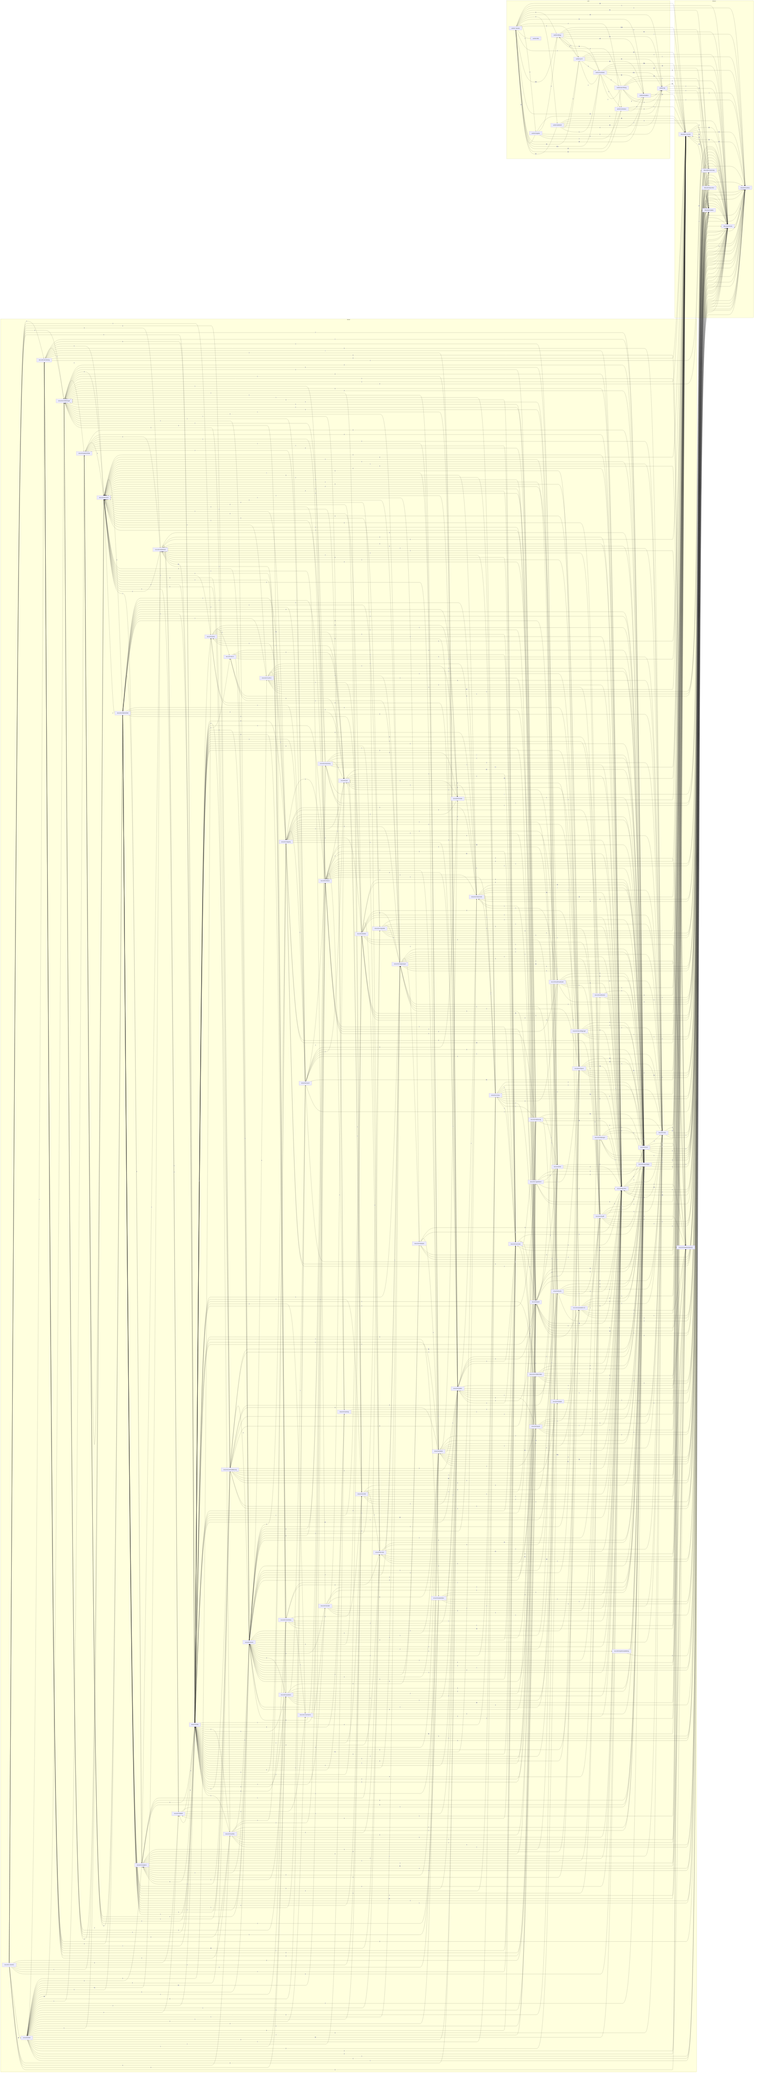
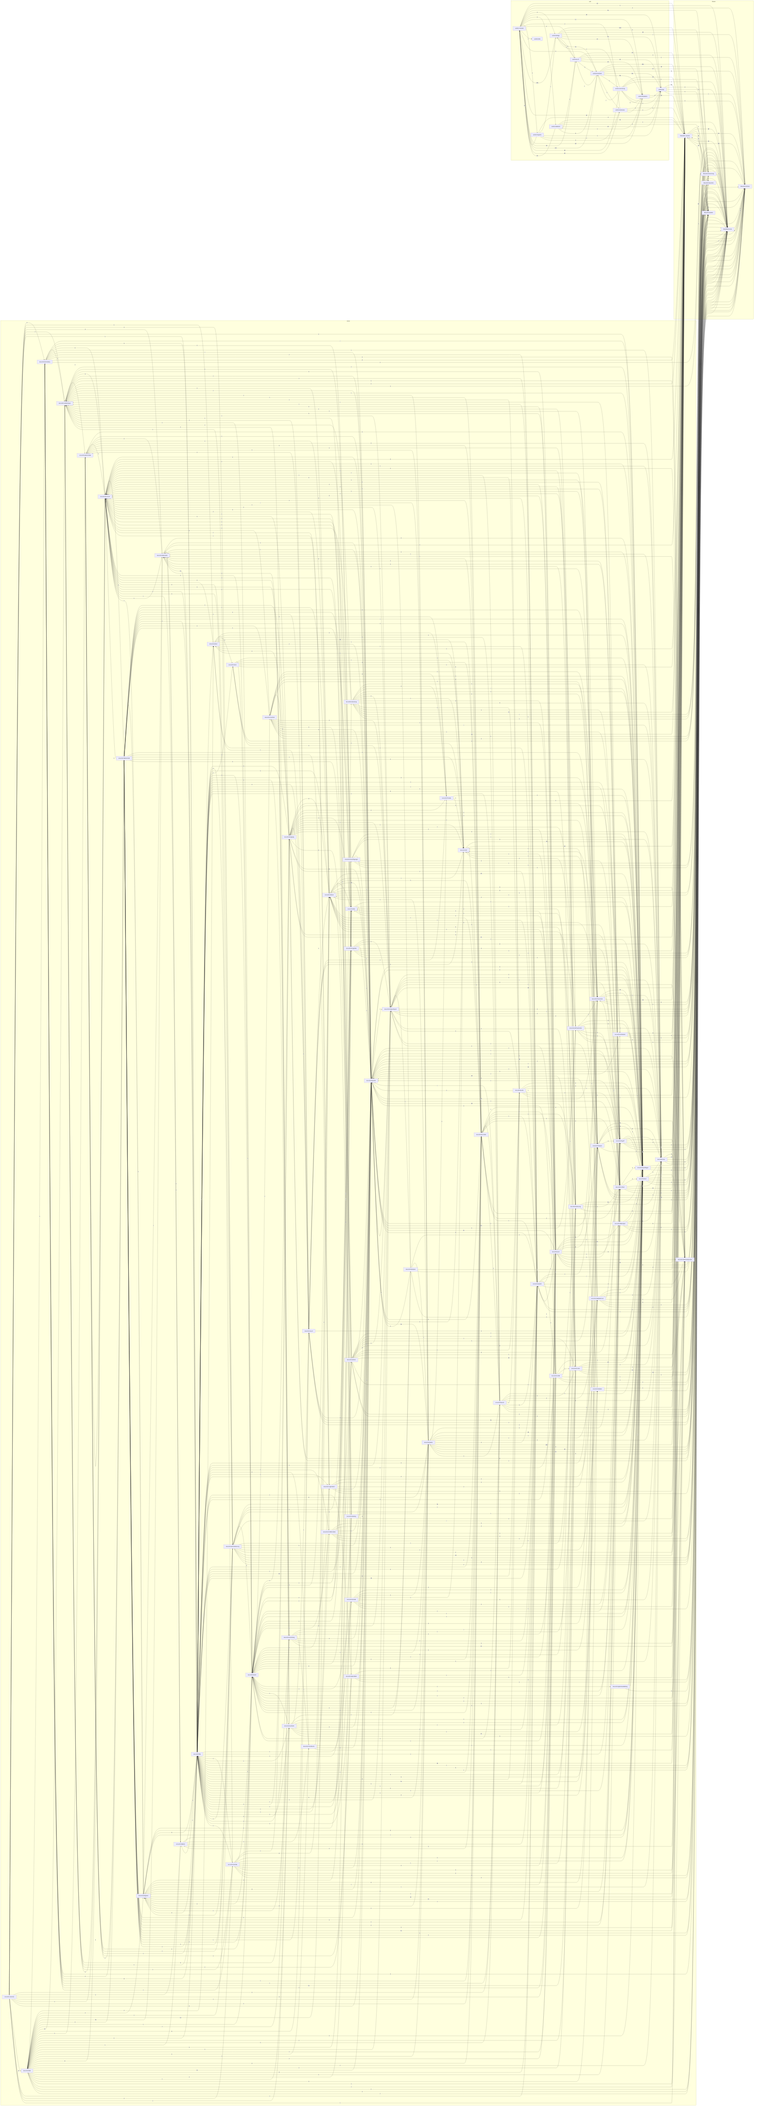
Kreise auch im Server über Typen als Fehler, Doku (#1278, Schritt 5b)
- kein-kreislauf: eine Regel für server/src, shared/src und web/src, auch
  über reine Typ-Importe (Tests ausgenommen). post/postfach-typen.ts steht
  mit postfach.ts in OHNE_TUER.
- knip-Bestand umgetragen (924 → 923; AufgabenKonten und LoeschenKonten an
  ihrem neuen Ort, Verschluesselung wird jetzt genutzt).
- Entwicklerhandbuch (de/en), „Abhängigkeiten zwischen den Teilen“: wie sich
  neue Routen anmelden, die Muster aus Schritt 5b.
- Release-Schnipsel und Abhängigkeitsbild.

diff --git a/docs/handbuch/entwickler/docs/stil.md b/docs/handbuch/entwickler/docs/stil.md
@@ -121,10 +121,11 @@ Ein neuer Token bekommt immer einen hellen **und** einen dunklen Wert (oder bewu
 
 `.dependency-cruiser.cjs` legt fest, wer wen importieren darf (`npm run lint:abh`):
 
-- **Keine Kreisläufe** zwischen Dateien (`kein-kreislauf`) – ein Kreis ist ein Fehler, er steht nicht im Bestand. In `shared/src/` und `web/src/` zählen seit #1278 (Schritt 5) auch reine Typ-Importe (`import type`, `import('…').Typ`): Auch ein Kreis nur über Typen verklebt die Dateien – keine lässt sich ohne die andere lesen oder verschieben. In `server/src/` gilt das, sobald der große Kreis über `http/routen.ts` aufgelöst ist (Schritt 5b); bis dahin zählen dort nur Importe, die zur Laufzeit wirken. Tests sind ausgenommen. Wie man einen Kreis auflöst:
-    - **Form nach unten:** Typen, die mehrere Dateien teilen, in eine Datei, die nichts zurück einbindet – die Datei, die sie auswertet, holt sie von dort und reicht sie weiter, wo andere sie bisher von ihr holten. Beispiele: Die Angaben am Feld und am Mappentyp (Frist, „folgt aus“, Erkennung, Format, Aufbewahrung …) liegen in `shared/src/model/angaben.ts`, das Regelwerk in `model/regelwerk.ts`, die Beschriftungen in `model/beschriftungen.ts`; die Form der Automatisierungen in `shared/src/automatisierung-typen.ts`; die Rechte an einer Sicht bei der Sicht (`sichten/baum.ts`).
+- **Keine Kreisläufe** zwischen Dateien (`kein-kreislauf`) – ein Kreis ist ein Fehler, er steht nicht im Bestand. Es zählen auch reine Typ-Importe (`import type`, `import('…').Typ`) – in `shared/src/` und `web/src/` seit #1278 (Schritt 5a), in `server/src/` seit Schritt 5b: Auch ein Kreis nur über Typen verklebt die Dateien – keine lässt sich ohne die andere lesen oder verschieben. Tests sind ausgenommen. Wie man einen Kreis auflöst:
+    - **Form nach unten:** Typen, die mehrere Dateien teilen, in eine Datei, die nichts zurück einbindet – die Datei, die sie auswertet, holt sie von dort und reicht sie weiter, wo andere sie bisher von ihr holten. Beispiele: Die Angaben am Feld und am Mappentyp (Frist, „folgt aus“, Erkennung, Format, Aufbewahrung …) liegen in `shared/src/model/angaben.ts`, das Regelwerk in `model/regelwerk.ts`, die Beschriftungen in `model/beschriftungen.ts`; die Form der Automatisierungen in `shared/src/automatisierung-typen.ts`; die Rechte an einer Sicht bei der Sicht (`sichten/baum.ts`). Im Server die Form der Routen in `http/routen-typen.ts` (siehe unten), die IMAP-Verbindung in `post/postfach-typen.ts`, der Plan des Notfallblatts in `pdf/notfallblatt.ts`, Dateiname und Texterkennung der Dokumente in `dokumente/gemeinsam.ts` und der Anschluss eines Fachordners in seiner `anschluss.ts` (`aufgaben/`, `loeschen/`, `datenschutz/`).
     - **Zweite Tür:** Teile, die das Fachmodell selbst einbindet (Prüfregeln, Werte und Systemmappentypen nutzen etwa `beschriftung.ts`, `folgtaus.ts`, `tabelle.ts`, `verweisziele.ts`), nehmen das Modell aus `model/basis.ts` – der Form von Feld, Mappentyp und Mappe ohne Prüfregeln –, nicht aus `model/index.ts`. Alles aus `basis.ts` gibt es auch über `index.ts`.
-    - **Schmaler Anschluss statt der ganzen Klasse:** Bekommt ein Teil seinen Besitzer herein (`new Historie(this)` im Kern), beschreibt er mit einer kleinen Schnittstelle, was er davon braucht (`HistorieAnschluss` in `server/src/kern/historie.ts`), statt die Klasse einzubinden.
+    - **Schmaler Anschluss statt der ganzen Klasse:** Bekommt ein Teil seinen Besitzer herein (`new Historie(this)` im Kern), beschreibt er mit einer kleinen Schnittstelle, was er davon braucht (`HistorieAnschluss` in `server/src/kern/historie.ts`), statt die Klasse einzubinden. Ebenso nehmen Erkennung, Übersetzung, Fragen an die Ablage und die Postfächer nicht den ganzen `Dienst`, sondern je eine Schnittstelle mit den Teilen, die sie rufen (`ErkennungDienst` in `erkennung/erkennung-basis.ts`, `PostfachDienst` …; `Pick<Klasse, 'methode'>`).
+    - **Teile beschreiben statt einbinden:** Rufen die Klassen eines Fachordners einander über `teile`, nennt jede nur die Teile, die sie ruft (`Pick<Klasse, …>` für Klassen weiter unten). Ruft eine Klasse fast alle anderen und rufen die anderen sie, beschreibt eine eigene Datei, was die anderen von ihr brauchen, und die Klasse erfüllt das (`aufgaben/vertretung-teil.ts`, `class AufgabenVertretung implements VertretungTeil`). Die volle Liste, die der Dienst zusammensetzt, steht ganz oben (`aufgaben/aufgaben-teile.ts`), den Anschluss hat der Ordner in `anschluss.ts`.
     - **Zustand neben die Oberfläche:** Hooks und Zustand, die Teile einer Seite teilen, in eine eigene Datei (`web/src/werkbank/paketeZustand.ts`, `betriebZustand.ts`, `web/src/erreichbarkeit.ts`); ein Kind beschreibt selbst, was es vom Elternteil bekommt (`PostfachStand.tsx`).
     - Gegenprobe: `npm run lint:abh` nennt den Kreis mit allen Dateien darauf.
 - **`shared/`** importiert weder `server/` noch `web/` – der Code läuft in beiden.
@@ -132,9 +133,10 @@ Ein neuer Token bekommt immer einen hellen **und** einen dunklen Wert (oder bewu
 - **Technik nur über `index.ts`:** die [PDF-Stelle](aufbau.md#pdf-stelle) `server/src/pdf/` (außer für `arbeit/vorgaenge.ts`, das die Vorgänge im Arbeiter-Faden ausführt) und `server/src/arbeit/`; das Repo `server/src/repo/` nur über seine drei `index.ts` (Schnittstelle, `pg/`, `speicher/`; `repo-nur-ueber-index`, #1278). Ebenso die Ordner in `shared/src/`, die früher eine Datei waren – das Fachmodell `model/`, `erkennung/`, `pakete/` und `sichten/` –, nur über ihre `index.ts` (`shared-ordner-nur-ueber-index`, #1278, Liste `SHARED_ORDNER`); die Importe heißen wie früher `…/shared/src/model` usw. Das Fachmodell hat eine zweite Tür, `model/basis.ts` (siehe oben, #1278, Schritt 5). Drei Ausnahmen, damit über die Tür kein Kreis entsteht: `feldformate.ts` holt die IBAN-Prüfung aus `erkennung/angaben.ts`, das Fachmodell den Typ `Feldbedingung` aus `sichten/bedingungen.ts` und die Bedingungen die Feldart aus `model/feldtypen.ts`.
 - **Fachordner** (#1072, eine Regel `fachordner` für alle, vorher je Ordner zwei): von außen nur über ihre `index.ts` – auch aus Tests –, und [Schichten](aufbau.md#schichten) nur abwärts. Die Schichten stehen zentral in `SCHICHTEN` (Kern 0, `zugriff` 1, `mappentypen`/`mappen`/`dokumente`/`berechtigungen`/`ereignisse` 2, alle übrigen 3, auch künftige), die Ordner ohne Fachlogik in `TECHNIK`. Der Kern importiert nur sich selbst, `shared/` und die Basis (`BASIS` in der Datei: Repo, Datenbank, Protokoll, Texte, Einstellungen, Dateien, Zähler, Fehler, Grenzen); höhere Schichten dazu tiefere Fachordner und die Werkzeuge (`WERKZEUGE`: `messung.ts`, `vektoren.ts`, seit #1075 die Technik der Dateien – `hochladen.ts`, `verkleinern.ts`, `dateiumwandlung.ts`, `archivfassung.ts`, `entsperren.ts`, `paketvolltext.ts` –, seit #1077 die Technik für Post, Ausgang und PDF bearbeiten – `pdfseiten.ts`, `graubild.ts`, `schwaerzen.ts`, `ausgabe.ts`, `export.ts`, `xlsx.ts`, `zip.ts`, `mail.ts` –, seit #1078 die Technik für Löschen und Datenschutz – `baum.ts`, `schriftstueck.ts`, `auskunft.ts`, `vollexport.ts`, `abruf.ts`, `passwort.ts`, `tresor.ts` –, `pdf/`, `arbeit/`) – nie `dienst.ts`. Routen (`*.routen.ts`) sind ausgenommen: `routen.ts` holt sie direkt, und sie dürfen den Dienst und ihren eigenen Fachordner einbinden. Siehe [Kern](aufbau.md#kern), [Rechte prüfen](aufbau.md#zugriff).
 - **Über dem Dienst** (#1278): Paketverwaltung und Paketerstellung (`pakete/verwaltung/`, `pakete/erstellung/`) und der Motor der Automatisierungen (`automatisierung/motor/`) bekommen den ganzen Dienst, und der Dienst bindet `pakete/index.ts` ein. Damit kein Kreis über `dienst.ts` entsteht, hat jeder dieser Unterordner eine eigene `index.ts` als Tür (`UEBER_DEM_DIENST`). Sie binden `dienst.ts` nur als Typ ein (`ueber-dem-dienst-typ`) und dürfen bis zu deren eigenem Umzug `katalogsignatur.ts`, `projektschluessel.ts`, `entdecken.ts`, `entdecken-werkbank.ts` und `lizenztexte.ts` direkt einbinden, der Motor außerdem `zeitplan.ts`, `system.ts`, `aufgabenmail.ts` und `automatisierung-werkbank.ts`.
-- **Ohne Tür** (#1278, `OHNE_TUER`): Die Dateien, die bis Schritt 4a direkt in `server/src/` lagen, liegen jetzt in ihren Ordnern, aber noch nicht hinter deren `index.ts`. Für die Regeln gelten sie wie vorher: Jeder darf sie direkt einbinden, sie selbst prüfen die Schichten nicht, und Fachordner dürfen von ihnen nur die, die eine Liste nennt (Basis, Werkzeuge, Nachbarn, Teile über dem Dienst). Die Listen nennen Pfade ab `server/src/` (etwa `datenbank/db`). Wer eine Datei hinter die Tür bringt, nimmt sie aus `OHNE_TUER`. Teile, in die Schritt 4b eine solche Datei aufgeteilt hat (`dienst/bauteile.ts`, `webdav/webdav-*.ts`, `sicherung/sicherung-*.ts`, `sicherung/wiederherstellung-*.ts`, `erkennung/erkennung-*.ts`, `export/vollexport-*.ts`), stehen mit ihr dort.
+- **Ohne Tür** (#1278, `OHNE_TUER`): Die Dateien, die bis Schritt 4a direkt in `server/src/` lagen, liegen jetzt in ihren Ordnern, aber noch nicht hinter deren `index.ts`. Für die Regeln gelten sie wie vorher: Jeder darf sie direkt einbinden, sie selbst prüfen die Schichten nicht, und Fachordner dürfen von ihnen nur die, die eine Liste nennt (Basis, Werkzeuge, Nachbarn, Teile über dem Dienst). Die Listen nennen Pfade ab `server/src/` (etwa `datenbank/db`). Wer eine Datei hinter die Tür bringt, nimmt sie aus `OHNE_TUER`. Teile, in die Schritt 4b eine solche Datei aufgeteilt hat (`dienst/bauteile.ts`, `webdav/webdav-*.ts`, `post/postfach-typen.ts` aus Schritt 5b, `sicherung/sicherung-*.ts`, `sicherung/wiederherstellung-*.ts`, `erkennung/erkennung-*.ts`, `export/vollexport-*.ts`), stehen mit ihr dort.
 - **Nachbarn** (#1278, `NACHBARN`): Dateien ohne Tür, die ein Fachordner zusätzlich einbinden darf – `konten/` die Dateien `anmeldung/anmeldesperre.ts`, `konten/konto-repo.ts`, `anmeldung/zweifaktor.ts`, `anmeldung/passkeys.ts` und `anmeldung/oidc.ts`.
 - **Start nur aus `ablago.ts`** (#1278, `start-nur-aus-ablago`): Die Abschnitte des Starts in `server/src/start/` (technischer Ordner wie `http/`) bindet nur `ablago.ts` ein.
+- **Neue Routen anmelden** (#960, #1278 Schritt 5b): Die Routen eines Fachbereichs stehen in `<ordner>/<ordner>.routen.ts` als Funktion `(k: RoutenKontext) => Route[]`. Die Form (`Route`, `Anfrage`, `Antwort`, `Datei`, `Zugang`) kommt aus `http/routen-typen.ts`, der Kontext aus `http/routen-kontext.ts`, Hilfen aus `http/routen-hilfen.ts` – nie aus `http/routen.ts`. Angemeldet wird die Funktion in der Liste `BEREICHE` in `http/routen.ts`; die Reihenfolge der Liste ist die Registrierreihenfolge (Routenliste, Fastify, OpenAPI), eine neue Funktion kommt ans Ende, wenn nichts anderes nötig ist. `http/routen.ts` ist die einzige Datei, die Fachrouten einbindet, und keine Fachdatei bindet `http/routen.ts` ein – so entsteht kein Kreis. Was der Start an Routen und Kontext übergibt, beschreibt `RoutenExtras` in `http/routen-extras.ts`; die Kopfzeilen ausgelieferter Dateien baut `http/datei-koepfe.ts`. Für Tests sind `Anfrage`, `Antwort`, `Datei`, `Route` und `dateiKoepfe` weiter auch über `http/routen.ts` erreichbar.
 - **Hilfen der HTTP-Schicht nur in Routen** (#961, `routen-hilfen-nur-in-routen`): `http/routen-hilfen.ts` und `http/routen-kontext.ts` importieren nur `*.routen.ts` und `routen.ts`. Fachlogik bekommt den Benutzer übergeben, statt ihn selbst aus der Anfrage zu lesen (etwa mit `ich(a)`).
 - **Tür und Beschreibung:** Jeder Fachordner mit `*.dienst.ts` braucht `index.ts` und eine von Hand geschriebene `README.md` (`.github/werkzeuge/fachordner-pruefen.mjs`, Job **stil**). Was in der README steht, prüft niemand; einen erzeugten Teil gibt es nicht.
 

diff --git a/docs/handbuch/entwickler/docs-en/stil.md b/docs/handbuch/entwickler/docs-en/stil.md
@@ -121,10 +121,11 @@ A new token always gets a light **and** a dark value (or deliberately the same o
 
 `.dependency-cruiser.cjs` defines who may import whom (`npm run lint:abh`):
 
-- **No cycles** between files (`kein-kreislauf`) – a cycle is an error, it is not in the baseline. In `shared/src/` and `web/src/`, type-only imports (`import type`, `import('…').Type`) count as well since #1278 (step 5): a cycle through types alone also glues files together – neither can be read or moved without the other. In `server/src/` this applies once the large cycle through `http/routen.ts` is resolved (step 5b); until then only imports that act at runtime count there. Tests are exempt. How to resolve a cycle:
-    - **Shape downwards:** types that several files share go into a file that imports nothing back – the file that evaluates them takes them from there and re-exports them where others used to take them from it. Examples: the settings on a field and a folder type (reminder, "follows from", recognition, format, retention …) live in `shared/src/model/angaben.ts`, the rule set in `model/regelwerk.ts`, the labels in `model/beschriftungen.ts`; the shape of automations in `shared/src/automatisierung-typen.ts`; the rights on a view next to the view (`sichten/baum.ts`).
+- **No cycles** between files (`kein-kreislauf`) – a cycle is an error, it is not in the baseline. Type-only imports (`import type`, `import('…').Type`) count as well – in `shared/src/` and `web/src/` since #1278 (step 5a), in `server/src/` since step 5b: a cycle through types alone also glues files together – neither can be read or moved without the other. Tests are exempt. How to resolve a cycle:
+    - **Shape downwards:** types that several files share go into a file that imports nothing back – the file that evaluates them takes them from there and re-exports them where others used to take them from it. Examples: the settings on a field and a folder type (reminder, "follows from", recognition, format, retention …) live in `shared/src/model/angaben.ts`, the rule set in `model/regelwerk.ts`, the labels in `model/beschriftungen.ts`; the shape of automations in `shared/src/automatisierung-typen.ts`; the rights on a view next to the view (`sichten/baum.ts`). In the server, the shape of routes in `http/routen-typen.ts` (see below), the IMAP connection in `post/postfach-typen.ts`, the plan of the emergency sheet in `pdf/notfallblatt.ts`, file name and text recognition of documents in `dokumente/gemeinsam.ts`, and a subject folder's connection in its `anschluss.ts` (`aufgaben/`, `loeschen/`, `datenschutz/`).
     - **Second door:** parts that the domain model itself imports (validation rules, values and system folder types use e.g. `beschriftung.ts`, `folgtaus.ts`, `tabelle.ts`, `verweisziele.ts`) take the model from `model/basis.ts` – the shape of field, folder type and folder without validation rules – not from `model/index.ts`. Everything in `basis.ts` is also available through `index.ts`.
-    - **Narrow connection instead of the whole class:** if a part receives its owner (`new Historie(this)` in the core), it describes with a small interface what it needs from it (`HistorieAnschluss` in `server/src/kern/historie.ts`) instead of importing the class.
+    - **Narrow connection instead of the whole class:** if a part receives its owner (`new Historie(this)` in the core), it describes with a small interface what it needs from it (`HistorieAnschluss` in `server/src/kern/historie.ts`) instead of importing the class. Likewise, recognition, translation, questions to the archive and the mailboxes do not take the whole `Dienst` but an interface with the parts they call (`ErkennungDienst` in `erkennung/erkennung-basis.ts`, `PostfachDienst` …; `Pick<Class, 'method'>`).
+    - **Describe parts instead of importing them:** if the classes of a subject folder call each other through `teile`, each names only the parts it calls (`Pick<Class, …>` for classes further down). If one class calls almost all others and they call it, a file of its own describes what the others need from it, and the class fulfils that (`aufgaben/vertretung-teil.ts`, `class AufgabenVertretung implements VertretungTeil`). The full list that the service assembles sits at the top (`aufgaben/aufgaben-teile.ts`); the folder keeps its connection in `anschluss.ts`.
     - **State next to the interface:** hooks and state that parts of a page share go into a file of their own (`web/src/werkbank/paketeZustand.ts`, `betriebZustand.ts`, `web/src/erreichbarkeit.ts`); a child describes itself what it receives from its parent (`PostfachStand.tsx`).
     - Counter-check: `npm run lint:abh` names the cycle with all files on it.
 - **`shared/`** imports neither `server/` nor `web/` – the code runs in both.
@@ -132,9 +133,10 @@ A new token always gets a light **and** a dark value (or deliberately the same o
 - **Technical folders only via `index.ts`:** the [PDF module](aufbau.md#pdf-stelle) `server/src/pdf/` (except for `arbeit/vorgaenge.ts`, which runs the operations in the worker thread) and `server/src/arbeit/`; the repo `server/src/repo/` only via its three `index.ts` (interface, `pg/`, `speicher/`; `repo-nur-ueber-index`, #1278). Likewise the folders in `shared/src/` that used to be one file – the domain model `model/`, `erkennung/`, `pakete/` and `sichten/` – only via their `index.ts` (`shared-ordner-nur-ueber-index`, #1278, list `SHARED_ORDNER`); imports read `…/shared/src/model` etc. as before. The domain model has a second door, `model/basis.ts` (see above, #1278, step 5). Three exceptions, so that no cycle arises through the door: `feldformate.ts` takes the IBAN check from `erkennung/angaben.ts`, the domain model the type `Feldbedingung` from `sichten/bedingungen.ts`, and the conditions the field type from `model/feldtypen.ts`.
 - **Subject folders** (#1072, one rule `fachordner` for all, previously two per folder): from outside only via their `index.ts` – tests included –, and [layers](aufbau.md#schichten) downwards only. The layers are kept in one place in `SCHICHTEN` (core 0, `zugriff` 1, `mappentypen`/`mappen`/`dokumente`/`berechtigungen`/`ereignisse` 2, all others 3, future ones too), the folders without business logic in `TECHNIK`. The core imports only itself, `shared/` and the base (`BASIS` in the file: repo, database, log, texts, settings, files, counters, errors, limits); higher layers also lower subject folders and the tools (`WERKZEUGE`: `messung.ts`, `vektoren.ts`, since #1075 the file technology – `hochladen.ts`, `verkleinern.ts`, `dateiumwandlung.ts`, `archivfassung.ts`, `entsperren.ts`, `paketvolltext.ts` –, since #1077 the technology for post, outgoing and editing PDFs – `pdfseiten.ts`, `graubild.ts`, `schwaerzen.ts`, `ausgabe.ts`, `export.ts`, `xlsx.ts`, `zip.ts`, `mail.ts` –, since #1078 the technology for deleting and data protection – `baum.ts`, `schriftstueck.ts`, `auskunft.ts`, `vollexport.ts`, `abruf.ts`, `passwort.ts`, `tresor.ts` –, `pdf/`, `arbeit/`) – never `dienst.ts`. Routes (`*.routen.ts`) are exempt: `routen.ts` fetches them directly, and they may import the service and their own subject folder. See [core](aufbau.md#kern), [checking permissions](aufbau.md#zugriff).
 - **Above the service** (#1278): package management and package creation (`pakete/verwaltung/`, `pakete/erstellung/`) and the automation engine (`automatisierung/motor/`) receive the whole service, and the service imports `pakete/index.ts`. So that no cycle runs through `dienst.ts`, each of these subfolders has its own `index.ts` as a door (`UEBER_DEM_DIENST`). They import `dienst.ts` as a type only (`ueber-dem-dienst-typ`) and, until those move themselves, may import `katalogsignatur.ts`, `projektschluessel.ts`, `entdecken.ts`, `entdecken-werkbank.ts` and `lizenztexte.ts` directly, the engine also `zeitplan.ts`, `system.ts`, `aufgabenmail.ts` and `automatisierung-werkbank.ts`.
-- **Without door** (#1278, `OHNE_TUER`): the files that sat directly in `server/src/` until step 4a now live in their folders, but not yet behind their `index.ts`. The rules treat them as before: anyone may import them directly, the layers do not check them, and subject folders may only import those that a list names (base, tools, neighbours, parts above the service). The lists name paths from `server/src/` (e.g. `datenbank/db`). Whoever moves a file behind the door removes it from `OHNE_TUER`. Parts that step 4b split such a file into (`dienst/bauteile.ts`, `webdav/webdav-*.ts`, `sicherung/sicherung-*.ts`, `sicherung/wiederherstellung-*.ts`, `erkennung/erkennung-*.ts`, `export/vollexport-*.ts`) are listed there with it.
+- **Without door** (#1278, `OHNE_TUER`): the files that sat directly in `server/src/` until step 4a now live in their folders, but not yet behind their `index.ts`. The rules treat them as before: anyone may import them directly, the layers do not check them, and subject folders may only import those that a list names (base, tools, neighbours, parts above the service). The lists name paths from `server/src/` (e.g. `datenbank/db`). Whoever moves a file behind the door removes it from `OHNE_TUER`. Parts that step 4b split such a file into (`dienst/bauteile.ts`, `webdav/webdav-*.ts`, `post/postfach-typen.ts` from step 5b, `sicherung/sicherung-*.ts`, `sicherung/wiederherstellung-*.ts`, `erkennung/erkennung-*.ts`, `export/vollexport-*.ts`) are listed there with it.
 - **Neighbours** (#1278, `NACHBARN`): files without a door that a subject folder may also import – `konten/` may import `anmeldung/anmeldesperre.ts`, `konten/konto-repo.ts`, `anmeldung/zweifaktor.ts`, `anmeldung/passkeys.ts` and `anmeldung/oidc.ts`.
 - **Start-up only from `ablago.ts`** (#1278, `start-nur-aus-ablago`): only `ablago.ts` imports the start-up sections in `server/src/start/` (a technical folder like `http/`).
+- **Registering new routes** (#960, #1278 step 5b): the routes of a subject area live in `<folder>/<folder>.routen.ts` as a function `(k: RoutenKontext) => Route[]`. The shape (`Route`, `Anfrage`, `Antwort`, `Datei`, `Zugang`) comes from `http/routen-typen.ts`, the context from `http/routen-kontext.ts`, helpers from `http/routen-hilfen.ts` – never from `http/routen.ts`. The function is registered in the list `BEREICHE` in `http/routen.ts`; the order of the list is the registration order (route list, Fastify, OpenAPI), a new function goes at the end unless something else is needed. `http/routen.ts` is the only file that imports subject routes, and no subject file imports `http/routen.ts` – so no cycle arises. What start-up passes to routes and context is described by `RoutenExtras` in `http/routen-extras.ts`; `http/datei-koepfe.ts` builds the headers of delivered files. For tests, `Anfrage`, `Antwort`, `Datei`, `Route` and `dateiKoepfe` remain available through `http/routen.ts` as well.
 - **HTTP layer helpers only in routes** (#961, `routen-hilfen-nur-in-routen`): `http/routen-hilfen.ts` and `http/routen-kontext.ts` are imported only by `*.routen.ts` and `routen.ts`. Business logic gets the user passed in instead of reading it from the request itself (for example with `ich(a)`).
 - **Door and description:** every subject folder with a `*.dienst.ts` needs `index.ts` and a hand-written `README.md` (`.github/werkzeuge/fachordner-pruefen.mjs`, **stil** job). Nobody checks what the README says; there is no generated part.
 

diff --git a/docs/releases/neu/qs-import-kreise-server.md b/docs/releases/neu/qs-import-kreise-server.md
@@ -1,0 +1,3 @@
+art: keine
+
+Auch im Server gibt es keine Kreise mehr zwischen den Dateien, auch nicht über reine Typ-Importe, und die Prüfung der Abhängigkeiten lässt nirgends neue zu (#1278) – ohne Änderung am Verhalten.
